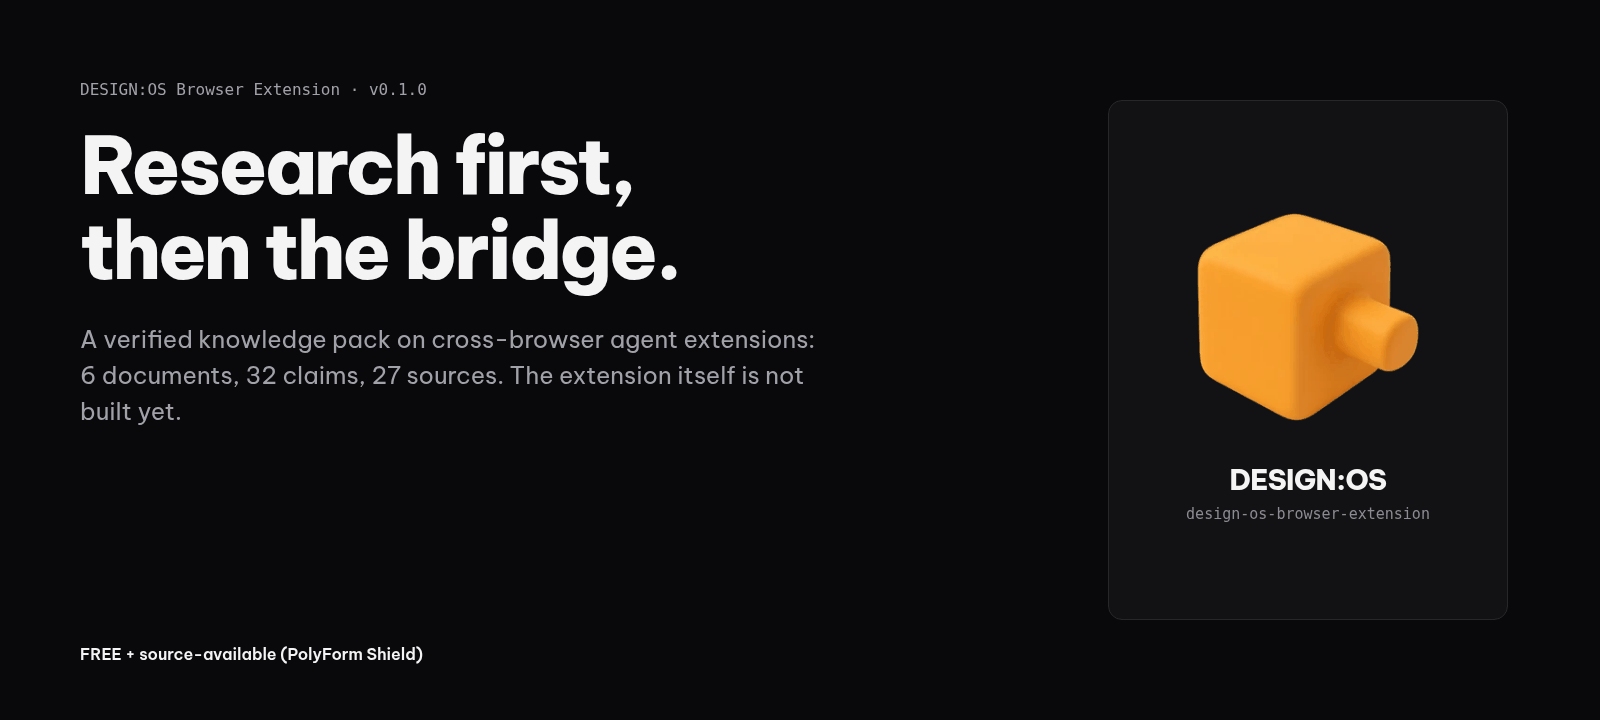
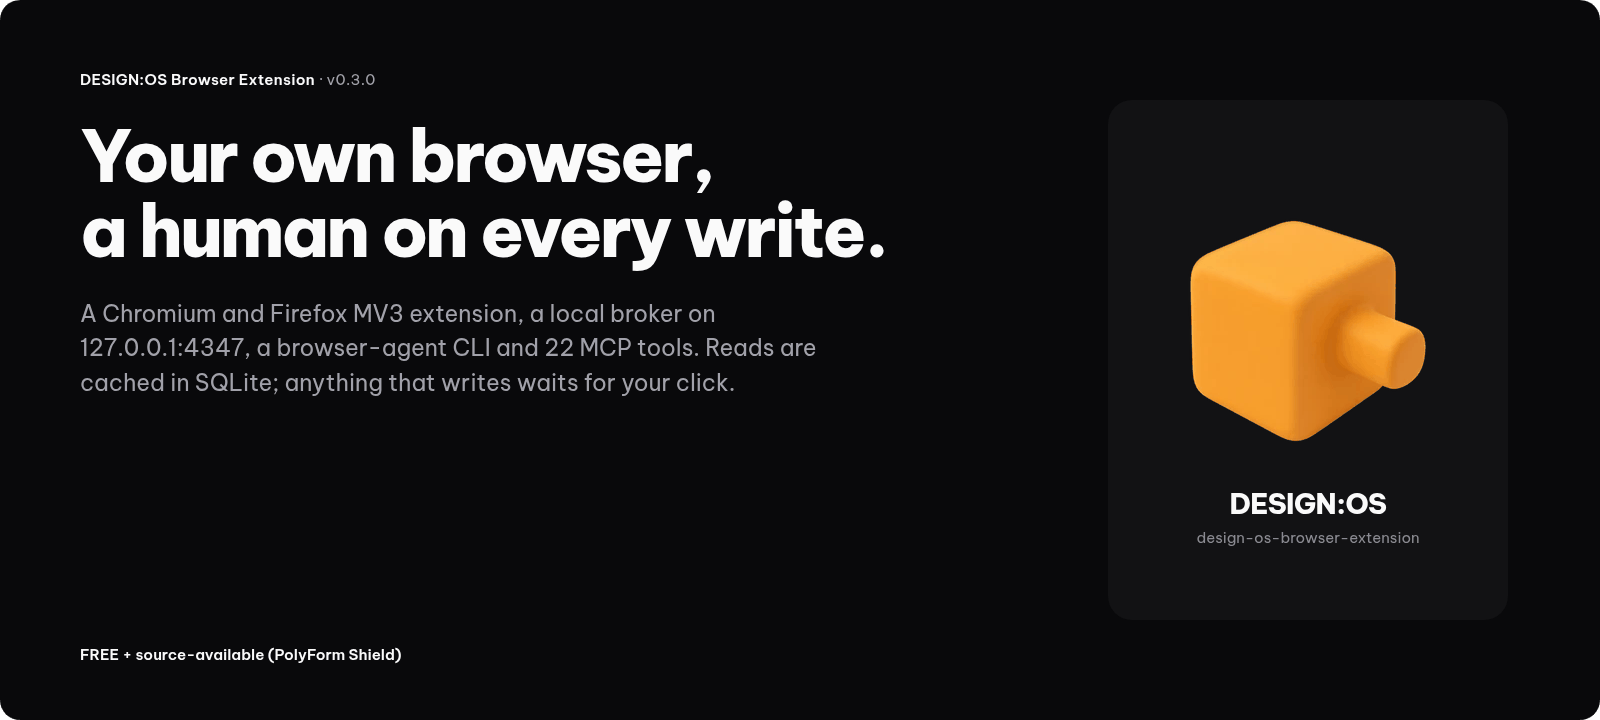
docs: make the README and cover match v0.3.0
The cover and flow still said the extension was not built (v0.1.0),
while the README text described v0.3.0 in marketing terms. Re-render the
cover, flow and social preview from v0.3.0 facts, keep the true content
added since PR #1, and drop unsupported wording (sub-5ms, zero-drift,
cleanly). Add the broad host permission and unpacked-only install to
Limits, and replace a person-like example target with <public-id>.

diff --git a/README.md b/README.md
@@ -8,89 +8,94 @@
 </picture>
 </p>
 
-Cross-browser WebExtension engineering knowledge (`UKMC.v2`), TypeScript `7.0.2+` Agent RPC runtime, and **LinkedIn Zero-Drift Hybrid Adapter** that lets AI agents operate cleanly inside a user's own signed-in Chromium or Firefox browser without headless bots, `chrome.debugger`, or brittle API hashes.
+A browser extension that lets an AI agent read and, with your approval, act inside your own signed-in browser. Version 0.3.0 has a Chromium and Firefox MV3 extension, a loopback broker on `127.0.0.1:4347`, a `browser-agent` CLI, a stdio MCP server with 22 tools, and a `node:sqlite` cache. It grew out of a `UKMC.v2` research pack in [`knowledge/agent-browser-extensions/`](knowledge/agent-browser-extensions/), built with [`design-os-knowledge-builder`](https://github.com/jangtrinh/design-os-knowledge-builder).
 
-The underlying `UKMC.v2` knowledge pack in [`knowledge/agent-browser-extensions/`](knowledge/agent-browser-extensions/) (`6` modules, `32` quoted claims, `27` sources, `18` entities, `0` verify failures) drives the compiled extension builds (`extension/dist/{chromium,firefox}`), local WebSocket broker (`127.0.0.1:4347`), `node:sqlite` cache, `browser-agent` CLI (`--json`), 22-tool MCP stdio server, `es-browser-agent` skill package, and multi-host agent workflows.
+Reads come from the page you have open, through its accessibility tree. Anything that writes (send, post, comment, connect, typing, form submits) is blocked until you click **Allow once** in the extension popup. Safari is researched but not packaged.
 
-FREE + source-available ([PolyForm Shield 1.0.0](LICENSE)). Zero telemetry, zero cloud session proxy. See [PRIVACY.md](PRIVACY.md) and [SECURITY.md](SECURITY.md).
+FREE + source-available ([PolyForm Shield 1.0.0](LICENSE)). No telemetry. See [PRIVACY.md](PRIVACY.md) and [SECURITY.md](SECURITY.md).
 
 <p>
-  <a href="#quickstart">Quickstart</a> · <a href="#use-with-your-ai-agent">Use with AI Agent</a> · <a href="#architecture-and-linkedin-adapter">Architecture</a> · <a href="#what-the-pack-covers">Knowledge Pack</a> · <a href="#how-it-was-built">How it was built</a> · <a href="#repository-layout">Layout</a> · <a href="#limits">Limits</a>
+  <a href="#quickstart">Quickstart</a> · <a href="#how-it-works">How it works</a> · <a href="#use-with-your-ai-agent">Use with your agent</a> · <a href="#what-the-pack-covers">Research pack</a> · <a href="#repository-layout">Layout</a> · <a href="#limits">Limits</a>
 </p>
 
 ## Quickstart
 
-Requires **Node >= 22**, **TypeScript >= 7.0.2**, and **Python >= 3.10** (stdlib only for pack & repo checks):
+Needs Node 22 or later (for `node:sqlite`) and Python 3.10 or later. TypeScript 7.0.2 and Vitest come in as dev dependencies.
 
 ```bash
 git clone https://github.com/jangtrinh/design-os-browser-extension.git
 cd design-os-browser-extension
 
-npm install
+npm ci
 npm run typecheck
 npm run build
-npm test
+npm test                                   # 17 Vitest suites, 79 tests
 python3 scripts/self_check.py --require-build
 ```
 
-Attach your live Chromium or Firefox browser over `127.0.0.1:4347`:
+Connect your own Chromium or Firefox:
 
 ```bash
-# 1. Print your pairing token and start the loopback broker
+# 1. Print the pairing token and start the loopback broker
 node cli/dist/browser-agent.js daemon token --reveal --json
 node cli/dist/browser-agent.js daemon start
 
-# 2. Load unpacked extension:
-#    - Chromium (Chrome / Arc / Brave): extension/dist/chromium
-#    - Firefox 128+: about:debugging -> extension/dist/firefox/manifest.json
-#    Open the extension popup -> paste pairing token -> Save & Connect.
+# 2. Load the unpacked extension
+#    Chromium (Chrome, Arc, Brave): extension/dist/chromium
+#    Firefox 128+: about:debugging -> extension/dist/firefox/manifest.json
+#    Open the popup, paste the pairing token, then Save & Connect.
 
-# 3. Query your open LinkedIn tab or local SQLite cache as JSON
+# 3. Read from an open LinkedIn tab or from the local cache
 node cli/dist/browser-agent.js linkedin status --json
 node cli/dist/browser-agent.js linkedin profile --json
-node cli/dist/browser-agent.js linkedin search --category people --query "AI" --json
-node cli/dist/browser-agent.js linkedin draft --kind message --target linh-nguyen --body "Hi Linh..." --prefill --json
+node cli/dist/browser-agent.js linkedin draft --kind message --target <public-id> --body "Hi" --prefill --json
 node cli/dist/browser-agent.js linkedin cache --sql "SELECT public_identifier, full_name, source FROM profiles LIMIT 20" --json
 
-# 4. Run 22-tool stdio MCP server (.mcp.json) or headless Chrome MV3 E2E visual check
+# 4. The shared readers, the MCP server, and the fixture E2E run
+node cli/dist/browser-agent.js reader list --json
 node cli/dist/browser-agent.js mcp
 npm run test:e2e
 ```
 
-To query the `UKMC.v2` knowledge graph directly, place [`design-os-knowledge-builder`](https://github.com/jangtrinh/design-os-knowledge-builder) next to this repository:
+`browser-agent --help` lists every command. To query the research pack, clone [`design-os-knowledge-builder`](https://github.com/jangtrinh/design-os-knowledge-builder) next to this repository:
 
 ```bash
 export PYTHONPATH="${KNOWLEDGE_BUILDER_REPO:-../design-os-knowledge-builder}/src"
 P="knowledge/agent-browser-extensions"
-
 python3 -m knowledge_builder.cli pack status --root "$P"
 python3 -m knowledge_builder.cli pack check --root "$P"
 python3 -m knowledge_builder.cli query --root "$P" --object-type bridge-primitive --fields id,object_type,path
-python3 "${KNOWLEDGE_BUILDER_REPO:-../design-os-knowledge-builder}/skills/es-knowledge-forge/validate.py" --root "$P"
 ```
+
+## How it works
+
+<p>
+<picture>
+  <source media="(prefers-color-scheme: dark)" srcset="docs/images/readme/flow-dark.png">
+  <source media="(prefers-color-scheme: light)" srcset="docs/images/readme/flow-light.png">
+  <img src="docs/images/readme/flow-dark.png" alt="design:os by Jang" width="100%">
+</picture>
+</p>
+
+1. **Reads from the accessibility tree.** The LinkedIn adapter (`extension/src/adapters/linkedin/`) reads profile, post, feed, search, analytics and comments in the `ISOLATED` world by role and accessible name. The older `/voyager/api/` JSON tap captured 0 entities in the [2026-11-16 live pilot](docs/pilot/2026-11-16-linkedin-live/README.md), so it was dropped. The `MAIN`-world `passive-observer.ts` only watches the page's own HTTP `429` and `451` statuses and never reads response bodies. The manifest asks for `storage`, `tabs` and `alarms`; there is no `chrome.debugger`.
+2. **Fenced writes.** Every UI action carries `(tabId, pageId, epoch, leaseId)` from `storage.session` (`extension/src/core/page-epoch-store.ts`). A stale page returns `BROWSER_PAGE_STALE`, and a write that times out becomes `UNCERTAIN` and is not retried.
+3. **A human on every write.** `browser_act` runs only `click_ref` and `fill_ref`, and only on allowlisted hosts (LinkedIn and local fixtures). Clicks that navigate, expand or paginate count as reads. Anything that writes returns `BLOCKED_POLICY` with an `approvalId` until you click **Allow once** in the popup. The approval is single-use, bound to that ref, tab, epoch and text, and expires after 2 minutes (`extension/src/core/act-approvals.ts`). Drafts are pre-filled but never sent (`sent: false`).
+4. **Hand back to the person.** Checkpoint and auth-wall URLs, CAPTCHA frames and `429`/`451` responses stop the run with `BLOCKED_CHALLENGE`, `BLOCKED_AUTH` or `BLOCKED_PAYMENT`, so you can resolve them in the open tab (`extension/src/core/human-gate-detector.ts`).
+5. **Local broker and cache.** The CLI broker listens on `127.0.0.1:4347` and requires the pairing token on `/rpc` and `/cache/query`. Reads are stored in `node:sqlite` and can be queried with read-only `SELECT` or `WITH` statements from the CLI or MCP (`linkedin_query_cache`, `reader_query_cache`).
+6. **Shared readers (`dos.reader.v1`).** A read-only layer for scheduled routines: 18 reader views across 10 sites (`linkedin`, `x`, `youtube-studio`, `producthunt`, `reddit`, `threads`, `facebook` following lists, `unikorn`, `jobs`, `generic`), 4 checks (`duplicate_text`, `profile_links`, `link_status`, `subreddit_rules`), a per-site pacing budget with back-off, an Account Guard that pauses a site until you resume it (`PAUSED_BY_GUARD`), and redacted evidence bundles. The spec is [`docs/specs/shared-browser-layer.md`](docs/specs/shared-browser-layer.md).
 
 ## Use with your AI agent
 
-Install the canonical `es:skill-forge v2` tool-product skill and interactive workflows into Claude Code, Codex CLI, Gemini CLI, and Antigravity:
+Check the skill contract, then copy the skill into `~/.claude/skills/`, `~/.gemini/config/skills/` and `~/.agents/skills/` (an existing `es-browser-agent` folder there is replaced):
 
 ```bash
 node scripts/skill_contract.mjs
 node scripts/sync_host_bundles.mjs --install-local
 ```
 
-- **Canonical Skill:** [`skills/es-browser-agent/SKILL.md`](skills/es-browser-agent/SKILL.md) with [`concepts.md`](skills/es-browser-agent/concepts.md), [`rules.md`](skills/es-browser-agent/rules.md) (`R1`–`R8`), [`look.md`](skills/es-browser-agent/look.md) (`L1`–`L8`), source-bound [`contract.md`](skills/es-browser-agent/contract.md), [`build.mjs`](skills/es-browser-agent/build.mjs), [`validate.mjs`](skills/es-browser-agent/validate.mjs), and [`look.mjs`](skills/es-browser-agent/look.mjs).
-- **Agent Interaction Workflows:** [`workflows/linkedin-agent-workflow.md`](workflows/linkedin-agent-workflow.md) (LinkedIn Cache -> Zero-Drift Read -> Fenced Observe/Act -> Copilot Draft -> Human Gate Handoff), [`workflows/new-site-extension-workflow.md`](workflows/new-site-extension-workflow.md), [`commands/linkedin.md`](commands/linkedin.md), and [`commands/doctor.md`](commands/doctor.md).
-- **Portable Host Bundles:** Synced copies under `bundles/{claude-code,codex,gemini,grok-build}/` plus `.mcp.json`, `.claude-plugin/`, `.codex-plugin/`, `.agents/plugins/`, and `.grok-plugin/` verified by `node scripts/sync_host_bundles.mjs --check`.
-
-## Architecture and LinkedIn adapter
-
-1. **Zero-Drift LinkedIn Reader (`extension/src/adapters/linkedin/`):** Profile, post, feed, search, analytics (`linkedin analytics`) and comments (`linkedin comments`) are read in the `ISOLATED` world from the accessibility tree (role + accessible name, `aria-readers.ts`), because LinkedIn now serves these pages through server-driven UI and the old `/voyager/api/` JSON tap captured 0 entities in the [2026-11-16 live pilot](docs/pilot/2026-11-16-linkedin-live/README.md). The `MAIN`-world `passive-observer.ts` now only watches the page's own HTTP `429`/`451` statuses for the Human Gate and never reads response bodies — **0 hardcoded query hashes, 0 synthetic background fetches, and 0 `chrome.debugger` permissions**.
-2. **Fenced Dispatch & Page Epoch (`extension/src/core/page-epoch-store.ts`):** Every UI mutation checks `(tabId, pageId, epoch, leaseId)` stored in `storage.session`, rejects stale navigation refs (`BROWSER_PAGE_STALE`), and retires timed-out writes to `UNCERTAIN` (`retryable: false`).
-3. **Human-Only Copilot Approval Queue (`extension/src/adapters/linkedin/copilot-composer.ts`):** `linkedin.draft.create` pre-fills visible composers without clicking Send (`sent: false`). Only human clicks inside `extension-popup` can mark queue items approved (`agent-rpc` self-approval is rejected with `BLOCKED_POLICY`).
-4. **Human Gate Handoff (`extension/src/core/human-gate-detector.ts`):** URL checkpoints (`/checkpoint/`, `/authwall`, `/premium/`), CAPTCHA iframes, and HTTP `429`/`451` signals immediately transition to `BLOCKED_CHALLENGE`, `BLOCKED_AUTH`, or `BLOCKED_PAYMENT` for manual resolution in the open tab.
-5. **Read-only `browser_act` by default (`extension/src/core/act-policy.ts`):** `act` runs only `click_ref` / `fill_ref` on allowlisted hosts (LinkedIn, local fixtures), and `--url` navigation is limited to the same hosts. Clicks that navigate, expand or paginate run directly and count as reads. Anything that writes (send, like, comment, repost, connect, message, post, typing, form submits, unknown controls) returns `BLOCKED_POLICY` with an `approvalId` and waits until a human clicks **Allow once** in the extension popup; the approval is single-use, binds to that exact ref/epoch/text and expires after two minutes.
-6. **SQLite Local Cache (`cli/src/db/sqlite-cache.ts`):** Reads auto-persist into `node:sqlite` for sub-5ms read-only `SELECT` / `WITH` queries via CLI or MCP (`linkedin_query_cache`).
-7. **Shared Browser Layer (`dos.reader.v1`, Issues #8–#26):** Extends the browser runtime into a unified read-only layer for bots and daily routines with 10 site adapters (`linkedin`, `x`, `youtube-studio`, `producthunt`, `reddit`, `threads`, `facebook`, `unikorn`, `jobs`, `generic`), 4 read-only checks (`duplicate_text`, `profile_links`, `link_status`, `subreddit_rules`), cache-first SQLite store (`reader_results`, `reader_latest`, `reader_series`), shared per-site pacing budget and back-off, human-only Account Guard (`PAUSED_BY_GUARD`), and redacted evidence bundles (`third-party-v1`).
+- Skill: [`skills/es-browser-agent/SKILL.md`](skills/es-browser-agent/SKILL.md), with [`concepts.md`](skills/es-browser-agent/concepts.md), [`rules.md`](skills/es-browser-agent/rules.md), [`look.md`](skills/es-browser-agent/look.md) and the source-bound [`contract.md`](skills/es-browser-agent/contract.md).
+- Workflows: [`workflows/linkedin-agent-workflow.md`](workflows/linkedin-agent-workflow.md), [`workflows/new-site-extension-workflow.md`](workflows/new-site-extension-workflow.md), and the commands [`commands/linkedin.md`](commands/linkedin.md) and [`commands/doctor.md`](commands/doctor.md).
+- Host bundles: synced copies under `bundles/{claude-code,codex,gemini,grok-build}/`, plus `.mcp.json`, `.claude-plugin/`, `.codex-plugin/`, `.agents/plugins/` and `.grok-plugin/`. `node scripts/sync_host_bundles.mjs --check` confirms they match.
 
 ## What the pack covers
 
@@ -102,7 +107,7 @@ This is the real `look.py` sheet for the pack, rendered by knowledge-builder fro
 
 <sub>design:os by Jang</sub>
 
-Core browser engineering findings backed by frozen claims in the pack:
+The research starts from problems an agent hits in a real browser, each backed by a claim in the pack:
 
 - Chrome 136 ignores `--remote-debugging-port` on the default user data directory.
 - Chrome stops an MV3 extension service worker after 30 seconds of inactivity; a 20-second WebSocket keepalive resets that timer.
@@ -124,38 +129,26 @@ The six documents:
 
 The 18 entities are 3 browser engines, 8 bridge primitives and 7 interaction barriers. Canonical glossary terms live in [CONTEXT.md](CONTEXT.md).
 
-## How it was built
-
-<p>
-<picture>
-  <source media="(prefers-color-scheme: dark)" srcset="docs/images/readme/flow-dark.png">
-  <source media="(prefers-color-scheme: light)" srcset="docs/images/readme/flow-light.png">
-  <img src="docs/images/readme/flow-dark.png" alt="design:os by Jang" width="100%">
-</picture>
-</p>
-
-1. **Sources & Claims (`UKMC.v2`):** 40 captured items -> 27 source objects -> 32 quoted claims across 6 documents, independently reviewed in `_evidence/agent-browser-extensions-261116/review.json`. Never hand-edit `claims/`, `sources/`, `captures.jsonl`, or `index.json`.
-2. **Engine & Adapter (`v0.3.0`):** Shared TypeScript `>= 7.0.2` RPC contracts (`shared/`), Chromium & Firefox MV3 extension builds (`extension/`), `127.0.0.1:4347` broker + `node:sqlite` + CLI + 22-tool MCP (`cli/`), and `es:skill-forge v2` tool-product package (`skills/es-browser-agent/`, `workflows/`, `bundles/`).
-
 ## Repository layout
 
-| Path | Status in `v0.3.0` |
+| Path | What is there |
 | :--- | :--- |
-| [`knowledge/agent-browser-extensions/`](knowledge/agent-browser-extensions/) | Verified `UKMC.v2` pack (`ontology.yaml`, 6 docs, 32 claims, 27 sources, 18 entities, `index.json`, `_evidence/`) |
-| [`shared/`](shared/) | Shared TypeScript `>= 7.0.2` `Agent RPC` envelope, capability tier, native 32-bit framing, LinkedIn schemas |
-| [`extension/`](extension/) | Chromium & Firefox MV3 builds, `Page Epoch` store, Operate popup, `MAIN` 429/451 sentinel, LinkedIn ARIA adapter |
-| [`cli/`](cli/) | `127.0.0.1:4347` WebSocket broker, `node:sqlite` cache, `browser-agent` CLI (`--json`), 22-tool MCP stdio server |
-| [`skills/es-browser-agent/`](skills/es-browser-agent/) | Tool-product skill (`SKILL.md`, `concepts.md`, `rules.md`, `look.md`, `contract.md`, `build`/`validate`/`look` scripts) |
-| [`workflows/`](workflows/) & [`commands/`](commands/) | Agent playbooks ([LinkedIn workflow](workflows/linkedin-agent-workflow.md), [New Site workflow](workflows/new-site-extension-workflow.md), `/doctor`, `/linkedin`) |
-| [`bundles/`](bundles/) | Synced portable bundles for `claude-code`, `codex`, `gemini`, and `grok-build` |
-| [`tests/`](tests/) | 17 Vitest suites covering fencing, Human Gate Handoff, normalizer, SQLite/MCP, manifests, `A1–A9` skill gates, and Shared Browser Layer (#8–#26) |
+| [`knowledge/agent-browser-extensions/`](knowledge/agent-browser-extensions/) | The `UKMC.v2` pack: `ontology.yaml`, 6 documents, 32 claims, 27 sources, 18 entities, `index.json`, `_evidence/` |
+| [`shared/`](shared/) | TypeScript Agent RPC envelope, capability tiers, 32-bit native framing, LinkedIn schemas |
+| [`extension/`](extension/) | Chromium and Firefox MV3 source and builds, page epoch store, popup, site adapters |
+| [`cli/`](cli/) | Loopback broker, `node:sqlite` cache, `browser-agent` CLI, MCP stdio server, shared readers |
+| [`skills/es-browser-agent/`](skills/es-browser-agent/), [`workflows/`](workflows/), [`commands/`](commands/), [`bundles/`](bundles/) | Agent skill, playbooks and synced host bundles |
+| [`tests/`](tests/) | 17 Vitest suites (79 tests): fencing, human gates, normalizer, SQLite and MCP, manifests, skill gates, shared readers |
 | [`scripts/`](scripts/) | `build.mjs`, `e2e_visual_proof.mjs`, `skill_contract.mjs`, `sync_host_bundles.mjs`, `self_check.py`, `verify_bridge_primitives.py` |
+| [`docs/`](docs/) | The shared browser layer spec and the 2026-11-16 LinkedIn pilot |
 
 ## Limits
 
-- Tier-3 Safari Web Extension still requires a native macOS/iOS Xcode App Container wrapper (`SafariWebExtensionHandler` host binary), documented in [`cross-browser-capability-matrix.md`](knowledge/agent-browser-extensions/cross-browser-capability-matrix.md) and not packaged as an `.app` bundle yet.
-- The knowledge pack's stopping gate (`pack check`) sits at `DEEPEN` (`0/3` low-delta rounds): treat the research corpus as an extensible living pack alongside the `v0.3.0` runtime.
-- Live LinkedIn testing operates strictly inside the user's authenticated browser session; fixture E2E runs (`npm run test:e2e`) cover deterministic Chromium MV3 attachment, ARIA reads of SDUI-shaped fixture pages, safe prefill, and `BLOCKED_CHALLENGE` halt without hitting live production accounts.
+- Safari is not packaged. A Safari web extension needs a native macOS or iOS app container; see [`cross-browser-capability-matrix.md`](knowledge/agent-browser-extensions/cross-browser-capability-matrix.md).
+- The extension asks for host access to every `https://` site (`https://*/*`) so the readers can work across sites. Writes are still limited to the allowlisted hosts and need your approval.
+- The research pack's gate is `DEEPEN` (0 of 3 low-delta rounds). Treat it as a strong first round, not a finished survey.
+- `npm run test:e2e` drives Chrome for Testing against local fixture pages, not live accounts. Live site readers run only inside your signed-in session and can break when a site changes its markup.
+- The extension is loaded unpacked; it is not published to the Chrome Web Store or Firefox Add-ons.
 
 ## DESIGN:OS
 

diff --git a/docs/images/readme/PROVENANCE.md b/docs/images/readme/PROVENANCE.md
@@ -1,7 +1,7 @@
 # Asset provenance
 
-## Clay mark (new, needs Jang's acceptance)
-`design-os-browser-extension.webp` (256x256 RGBA WebP) is a new mark. The hub (`jangtrinh/jangtrinh.github.io`, `assets/logos/`) has no mark for this repository, so one was generated in the hub's 3D matte soft clay family.
+## Clay mark
[1 lines of base64/hex data omitted]
 
 - Tool: Grok Bot image generation (GenerateImage), 2026-11-16, Asia/Saigon.
 - Form: one chunky rounded cube with one short, fat, rounded peg on its right face (an abstract plug-in block). No text, no logo, no third-party mark as subject or reference.
@@ -12,9 +12,9 @@
 - A first attempt (a rounded slab with a folder-like tab) was dropped because it read as a literal folder icon.
 
 ## Covers, flow diagrams and social preview
-1600x720 covers, 1600x1000 flow, 1280x640 social. Be Vietnam Pro (400, 600, 800) with the system mono stack, rendered with headless Chrome, then quantised to an indexed palette. Family tokens: dark #09090b / #121215 / #27272a, light #fafafa / #f4f4f5 / #e4e4e7, one accent #fca849 (the mark on covers, the arrows on the flow). Footer: FREE + source-available (PolyForm Shield). `social-preview.png` is not uploaded in repository Settings.
+1600x720 covers, 1600x1000 flow, 1280x640 social, re-rendered on 2026-11-17 (Asia/Saigon) for v0.3.0. Be Vietnam Pro (400, 600, 800), rendered with headless Chrome, then quantised to an indexed palette. Family tokens: dark #09090b / #121214, light #f4f4f5 / #e4e4e7, one accent #fca849 (the mark on covers, the arrows on the flow). Footer: FREE + source-available (PolyForm Shield). `social-preview.png` is not uploaded in repository Settings.
 
-Every number on the cards comes from the repository: `pack status` and `pack check` from knowledge-builder on `knowledge/agent-browser-extensions` (6 documents by type, 32 claims, 27 sources, 18 entities by type, 6 claims with 2+ publishers, 0 uncited, 0 verify failures, gate DEEPEN at 0 of 3 low-delta rounds), and `_evidence/agent-browser-extensions-261116/captures.jsonl` (40 captures: 39 fetched, 1 executed). Version 0.1.0 is from `CHANGELOG.md`.
+Every number on the cards comes from the repository at v0.3.0: `pack status` and `pack check` on `knowledge/agent-browser-extensions` (6 documents, 32 claims, 27 sources, 18 entities, 0 verify failures, gate DEEPEN at 0 of 3 low-delta rounds); the built manifests (Firefox `strict_min_version` 128.0; permissions `storage`, `tabs`, `alarms`); `extension/src/core/act-approvals.ts` (single-use approvals, 120 000 ms TTL); `shared/rpc-envelope.ts` (port 4347); the MCP `tools/list` response (22 tools); `cli/src/reader/register-all.ts` (10 sites, 4 checks); and `npm test` (17 suites, 79 tests). Version 0.3.0 is from `package.json` and `CHANGELOG.md`.
 
 ## Look sheet
 `look-sheet-agent-browser-extensions.png` is real output of knowledge-builder `skills/es-knowledge-forge/look.py --root knowledge/agent-browser-extensions` (L1 to L4 ok). The local checkout path in the header line was covered with a grey bar for privacy, and the palette was reduced to keep the file small. Nothing else was changed.
